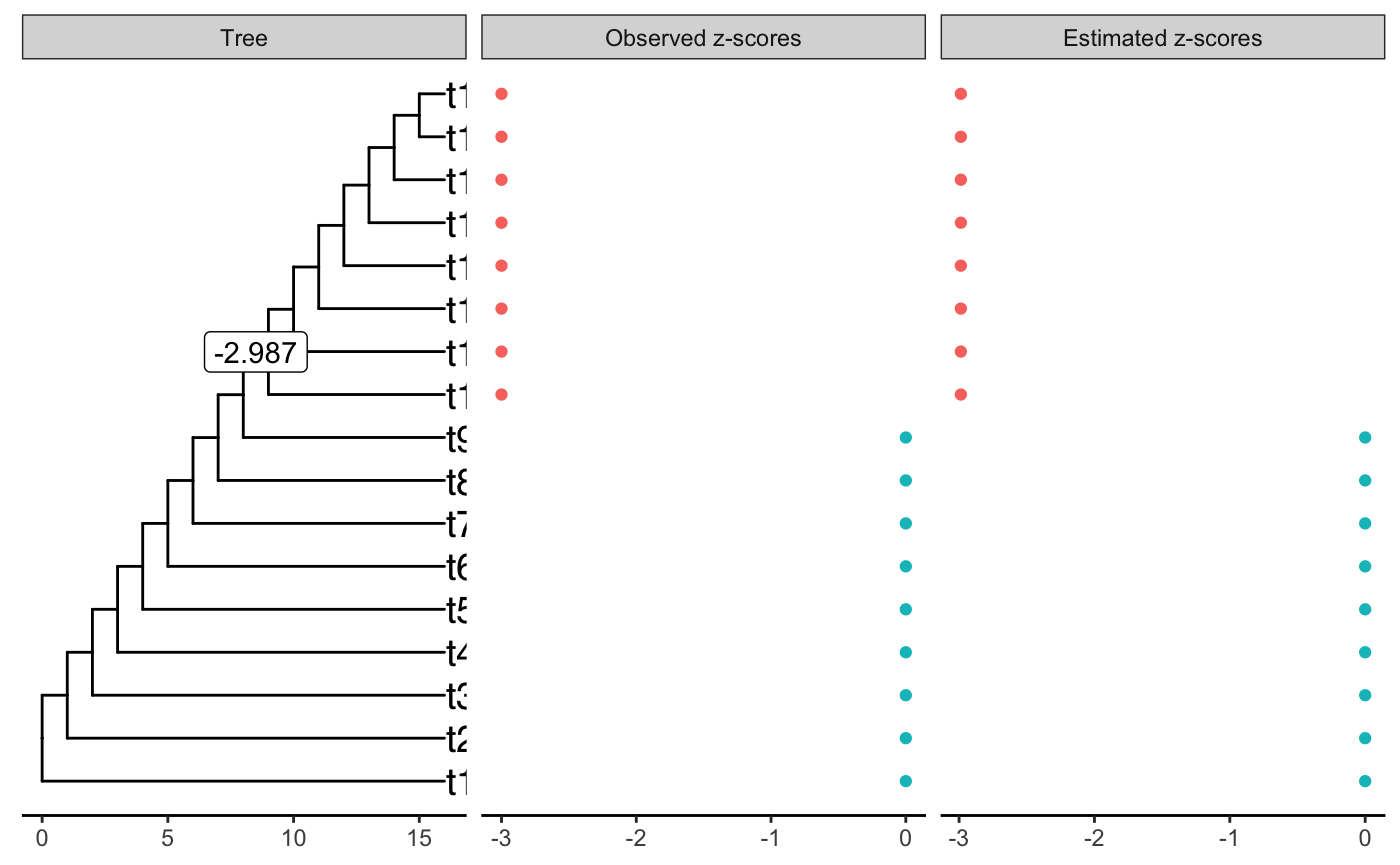
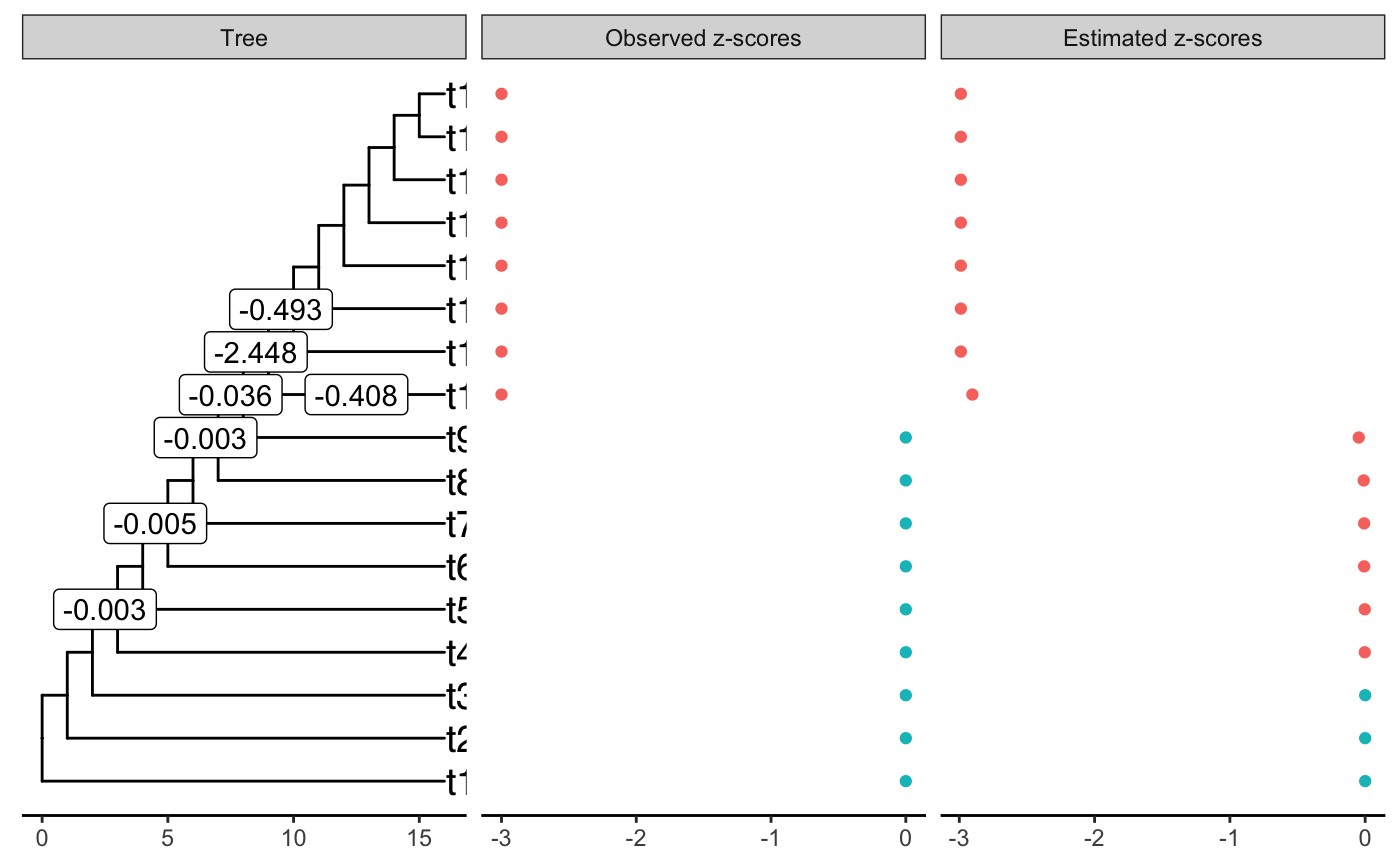
Render pkgdown

diff --git a/inst/docs/articles/constraints.html b/inst/docs/articles/constraints.html
@@ -102,7 +102,8 @@
     
     
 <div class="sourceCode" id="cb1"><pre class="sourceCode r"><code class="sourceCode r"><a class="sourceLine" id="cb1-1" data-line-number="1"><span class="kw"><a href="https://rdrr.io/r/base/library.html">library</a></span>(zazou)</a>
-<a class="sourceLine" id="cb1-2" data-line-number="2"><span class="kw"><a href="https://rdrr.io/r/base/library.html">library</a></span>(ape)</a></code></pre></div>
+<a class="sourceLine" id="cb1-2" data-line-number="2"><span class="kw"><a href="https://rdrr.io/r/base/library.html">library</a></span>(ape)</a>
+<a class="sourceLine" id="cb1-3" data-line-number="3"><span class="kw"><a href="https://rdrr.io/r/base/Random.html">set.seed</a></span>(<span class="dv">1234</span>)</a></code></pre></div>
 <div id="tree" class="section level2">
 <h2 class="hasAnchor">
 <a href="#tree" class="anchor"></a>Tree</h2>
@@ -129,32 +130,33 @@
 <h3 class="hasAnchor">
 <a href="#constraint-on-beta" class="anchor"></a>Constraint on beta</h3>
 <div class="sourceCode" id="cb4"><pre class="sourceCode r"><code class="sourceCode r"><a class="sourceLine" id="cb4-1" data-line-number="1">estimation1 &lt;-<span class="st"> </span><span class="kw"><a href="../reference/estimate_shifts.html">estimate_shifts</a></span>(<span class="kw"><a href="https://rdrr.io/r/base/rep.html">rep</a></span>(<span class="dv">0</span>, M), <span class="dt">zscores =</span> true_zscores, </a>
-<a class="sourceLine" id="cb4-2" data-line-number="2">                              <span class="dt">tree =</span> tree, <span class="dt">alpha =</span> <span class="dv">1</span>, <span class="dt">lambda =</span> <span class="fl">0.1</span>)</a>
-<a class="sourceLine" id="cb4-3" data-line-number="3">estimation1</a>
-<a class="sourceLine" id="cb4-4" data-line-number="4"><span class="co">#&gt; Tree is binary with 17 leafs and 32 branches</span></a>
-<a class="sourceLine" id="cb4-5" data-line-number="5"><span class="co">#&gt; Covariance matrix has been estimated from an OU with alpha = 1 and sigma = 1.414 </span></a>
-<a class="sourceLine" id="cb4-6" data-line-number="6"><span class="co">#&gt; ---</span></a>
-<a class="sourceLine" id="cb4-7" data-line-number="7"><span class="co">#&gt; Optimisation algorithm: L-BFGS-B</span></a>
-<a class="sourceLine" id="cb4-8" data-line-number="8"><span class="co">#&gt; Regularization parameter: lambda = 0.1 </span></a>
-<a class="sourceLine" id="cb4-9" data-line-number="9"><span class="co">#&gt; Objective value: 0.299</span></a>
-<a class="sourceLine" id="cb4-10" data-line-number="10"><span class="co">#&gt; BIC: 45.861</span></a>
-<a class="sourceLine" id="cb4-11" data-line-number="11"><span class="co">#&gt; pBIC: 58.47</span></a>
-<a class="sourceLine" id="cb4-12" data-line-number="12"><span class="co">#&gt; ---</span></a>
-<a class="sourceLine" id="cb4-13" data-line-number="13"><span class="co">#&gt; Estimated shifts: 0 0 0 0 0 0 0 0 0 0 ...</span></a>
-<a class="sourceLine" id="cb4-14" data-line-number="14"><span class="co">#&gt; 1 shifts have been identified (ie 96.9 % of sparsity)</span></a>
-<a class="sourceLine" id="cb4-15" data-line-number="15"><span class="co">#&gt; A parsimonious solution would involve 1 shifts</span></a>
-<a class="sourceLine" id="cb4-16" data-line-number="16"><span class="co">#&gt; ---</span></a>
-<a class="sourceLine" id="cb4-17" data-line-number="17"><span class="co">#&gt; Observed z-scores:  0 0 0 0 0 0 0 0 0     -3 ...</span></a>
-<a class="sourceLine" id="cb4-18" data-line-number="18"><span class="co">#&gt; Estimated z-scores: 0 0 0 0 0 0 0 0 0 -2.987 ...</span></a>
-<a class="sourceLine" id="cb4-19" data-line-number="19"><span class="co">#&gt; 8 z-scores have been shifted (ie 52.9 % of sparsity)</span></a>
-<a class="sourceLine" id="cb4-20" data-line-number="20"><span class="kw"><a href="https://rdrr.io/r/graphics/plot.html">plot</a></span>(estimation1)</a>
-<a class="sourceLine" id="cb4-21" data-line-number="21"><span class="co">#&gt; Warning: Removed 32 rows containing missing values (geom_label).</span></a></code></pre></div>
+<a class="sourceLine" id="cb4-2" data-line-number="2">                              <span class="dt">tree =</span> tree, <span class="dt">alpha =</span> <span class="dv">1</span>, <span class="dt">lambda =</span> <span class="fl">0.1</span>, </a>
+<a class="sourceLine" id="cb4-3" data-line-number="3">                              <span class="dt">method =</span> <span class="st">"shooting"</span>)</a>
+<a class="sourceLine" id="cb4-4" data-line-number="4">estimation1</a>
+<a class="sourceLine" id="cb4-5" data-line-number="5"><span class="co">#&gt; Tree is binary with 17 leafs and 32 branches</span></a>
+<a class="sourceLine" id="cb4-6" data-line-number="6"><span class="co">#&gt; Covariance matrix has been estimated from an OU with alpha = 1 and sigma = 1.414 </span></a>
+<a class="sourceLine" id="cb4-7" data-line-number="7"><span class="co">#&gt; ---</span></a>
+<a class="sourceLine" id="cb4-8" data-line-number="8"><span class="co">#&gt; Optimisation algorithm: shooting</span></a>
+<a class="sourceLine" id="cb4-9" data-line-number="9"><span class="co">#&gt; Regularization parameter: lambda = 0.1 </span></a>
+<a class="sourceLine" id="cb4-10" data-line-number="10"><span class="co">#&gt; Objective value: 0.346</span></a>
+<a class="sourceLine" id="cb4-11" data-line-number="11"><span class="co">#&gt; BIC: 62.866</span></a>
+<a class="sourceLine" id="cb4-12" data-line-number="12"><span class="co">#&gt; pBIC: 71.018</span></a>
+<a class="sourceLine" id="cb4-13" data-line-number="13"><span class="co">#&gt; ---</span></a>
+<a class="sourceLine" id="cb4-14" data-line-number="14"><span class="co">#&gt; Estimated shifts: 0 0 0 0 0 -0.003 0 0 0 -0.005 ...</span></a>
+<a class="sourceLine" id="cb4-15" data-line-number="15"><span class="co">#&gt; 7 shifts have been identified (ie 78.1 % of sparsity)</span></a>
+<a class="sourceLine" id="cb4-16" data-line-number="16"><span class="co">#&gt; A parsimonious solution would involve 6 shifts</span></a>
+<a class="sourceLine" id="cb4-17" data-line-number="17"><span class="co">#&gt; ---</span></a>
+<a class="sourceLine" id="cb4-18" data-line-number="18"><span class="co">#&gt; Observed z-scores:  0 0 0      0      0      0      0      0      0     -3 ...</span></a>
+<a class="sourceLine" id="cb4-19" data-line-number="19"><span class="co">#&gt; Estimated z-scores: 0 0 0 -0.003 -0.003 -0.008 -0.008 -0.011 -0.047 -2.903 ...</span></a>
+<a class="sourceLine" id="cb4-20" data-line-number="20"><span class="co">#&gt; 14 z-scores have been shifted (ie 17.6 % of sparsity)</span></a>
+<a class="sourceLine" id="cb4-21" data-line-number="21"><span class="kw"><a href="https://rdrr.io/r/graphics/plot.html">plot</a></span>(estimation1)</a>
+<a class="sourceLine" id="cb4-22" data-line-number="22"><span class="co">#&gt; Warning: Removed 26 rows containing missing values (geom_label).</span></a></code></pre></div>
 <p><img src="constraints_files/figure-html/unnamed-chunk-3-1.png" width="700" style="display: block; margin: auto;"></p>
 </div>
 </div>
-<div id="all-zscores-are-negative-but-shifts-could-be-positive" class="section level2">
+<div id="all-z-scores-are-negative-but-shifts-could-be-positive" class="section level2">
 <h2 class="hasAnchor">
-<a href="#all-zscores-are-negative-but-shifts-could-be-positive" class="anchor"></a>All zscores are negative but shifts could be positive</h2>
+<a href="#all-z-scores-are-negative-but-shifts-could-be-positive" class="anchor"></a>All z-scores are negative but shifts could be positive</h2>
 <div class="sourceCode" id="cb5"><pre class="sourceCode r"><code class="sourceCode r"><a class="sourceLine" id="cb5-1" data-line-number="1">true_shifts[<span class="dv">13</span> <span class="op">*</span><span class="st"> </span>M <span class="op">/</span><span class="st"> </span><span class="dv">16</span>] &lt;-<span class="st"> </span><span class="dv">1</span></a>
 <a class="sourceLine" id="cb5-2" data-line-number="2">true_zscores &lt;-<span class="st"> </span>mat_incid <span class="op">%*%</span><span class="st"> </span>true_shifts</a>
 <a class="sourceLine" id="cb5-3" data-line-number="3"><span class="kw"><a href="../reference/plot_shifts.html">plot_shifts</a></span>(tree, true_shifts, <span class="dt">true_scores =</span> true_zscores)</a>
@@ -172,20 +174,21 @@
 <a class="sourceLine" id="cb6-7" data-line-number="7"><span class="co">#&gt; ---</span></a>
 <a class="sourceLine" id="cb6-8" data-line-number="8"><span class="co">#&gt; Optimisation algorithm: shooting</span></a>
 <a class="sourceLine" id="cb6-9" data-line-number="9"><span class="co">#&gt; Regularization parameter: lambda = 0.1 </span></a>
-<a class="sourceLine" id="cb6-10" data-line-number="10"><span class="co">#&gt; Objective value: 0.594</span></a>
-<a class="sourceLine" id="cb6-11" data-line-number="11"><span class="co">#&gt; BIC: 71.389</span></a>
-<a class="sourceLine" id="cb6-12" data-line-number="12"><span class="co">#&gt; pBIC: 90.335</span></a>
+<a class="sourceLine" id="cb6-10" data-line-number="10"><span class="co">#&gt; Objective value: 0.598</span></a>
+<a class="sourceLine" id="cb6-11" data-line-number="11"><span class="co">#&gt; BIC: 74.222</span></a>
+<a class="sourceLine" id="cb6-12" data-line-number="12"><span class="co">#&gt; pBIC: 97.086</span></a>
 <a class="sourceLine" id="cb6-13" data-line-number="13"><span class="co">#&gt; ---</span></a>
-<a class="sourceLine" id="cb6-14" data-line-number="14"><span class="co">#&gt; Estimated shifts: 0 0 0 0 0 -0.002 0 0 0 0 ...</span></a>
-<a class="sourceLine" id="cb6-15" data-line-number="15"><span class="co">#&gt; 10 shifts have been identified (ie 68.8 % of sparsity)</span></a>
-<a class="sourceLine" id="cb6-16" data-line-number="16"><span class="co">#&gt; A parsimonious solution would involve 9 shifts</span></a>
+<a class="sourceLine" id="cb6-14" data-line-number="14"><span class="co">#&gt; Estimated shifts: 0 0 0 -0.001 0 0 0 0 0 -0.003 ...</span></a>
+<a class="sourceLine" id="cb6-15" data-line-number="15"><span class="co">#&gt; 11 shifts have been identified (ie 65.6 % of sparsity)</span></a>
+<a class="sourceLine" id="cb6-16" data-line-number="16"><span class="co">#&gt; A parsimonious solution would involve 10 shifts</span></a>
 <a class="sourceLine" id="cb6-17" data-line-number="17"><span class="co">#&gt; ---</span></a>
-<a class="sourceLine" id="cb6-18" data-line-number="18"><span class="co">#&gt; Observed z-scores:  0 0 0      0      0      0      0      0      0   -3 ...</span></a>
-<a class="sourceLine" id="cb6-19" data-line-number="19"><span class="co">#&gt; Estimated z-scores: 0 0 0 -0.002 -0.002 -0.002 -0.004 -0.007 -0.049 -2.9 ...</span></a>
-<a class="sourceLine" id="cb6-20" data-line-number="20"><span class="co">#&gt; 14 z-scores have been shifted (ie 17.6 % of sparsity)</span></a>
+<a class="sourceLine" id="cb6-18" data-line-number="18"><span class="co">#&gt; Observed z-scores:  0 0      0      0      0      0      0     0      0     -3 ...</span></a>
+<a class="sourceLine" id="cb6-19" data-line-number="19"><span class="co">#&gt; Estimated z-scores: 0 0 -0.001 -0.001 -0.001 -0.004 -0.006 -0.01 -0.052 -2.905 ...</span></a>
+<a class="sourceLine" id="cb6-20" data-line-number="20"><span class="co">#&gt; 15 z-scores have been shifted (ie 11.8 % of sparsity)</span></a>
 <a class="sourceLine" id="cb6-21" data-line-number="21"><span class="kw"><a href="https://rdrr.io/r/graphics/plot.html">plot</a></span>(estimation2)</a>
-<a class="sourceLine" id="cb6-22" data-line-number="22"><span class="co">#&gt; Warning: Removed 23 rows containing missing values (geom_label).</span></a></code></pre></div>
+<a class="sourceLine" id="cb6-22" data-line-number="22"><span class="co">#&gt; Warning: Removed 22 rows containing missing values (geom_label).</span></a></code></pre></div>
 <p><img src="constraints_files/figure-html/unnamed-chunk-5-1.png" width="700" style="display: block; margin: auto;"></p>
+<p>Z-score are well recovered but the solution is absolutely not sparse. We should prioritize ancestral branches before</p>
 </div>
 <div id="constraint-on-yhat" class="section level3">
 <h3 class="hasAnchor">
@@ -194,16 +197,31 @@
 <a class="sourceLine" id="cb7-2" data-line-number="2">                              <span class="dt">tree =</span> tree, <span class="dt">alpha =</span> <span class="dv">1</span>, <span class="dt">lambda =</span> <span class="fl">0.1</span>,  </a>
 <a class="sourceLine" id="cb7-3" data-line-number="3">                              <span class="dt">method =</span> <span class="st">"shooting"</span>,</a>
 <a class="sourceLine" id="cb7-4" data-line-number="4">                              <span class="dt">constraint_type =</span> <span class="st">"yhat"</span>)</a>
-<a class="sourceLine" id="cb7-5" data-line-number="5"><span class="co">#&gt; Error in solve_univariate(y = y, x = xi, z = zi, lambda = lambda, ...): The constraint is not feasible. Consider changing the constraint.</span></a>
-<a class="sourceLine" id="cb7-6" data-line-number="6">estimation3</a>
-<a class="sourceLine" id="cb7-7" data-line-number="7"><span class="co">#&gt; Error in eval(expr, envir, enclos): objet 'estimation3' introuvable</span></a>
-<a class="sourceLine" id="cb7-8" data-line-number="8"><span class="kw"><a href="https://rdrr.io/r/graphics/plot.html">plot</a></span>(estimation3)</a>
-<a class="sourceLine" id="cb7-9" data-line-number="9"><span class="co">#&gt; Error in plot(estimation3): objet 'estimation3' introuvable</span></a></code></pre></div>
+<a class="sourceLine" id="cb7-5" data-line-number="5">estimation3</a>
+<a class="sourceLine" id="cb7-6" data-line-number="6"><span class="co">#&gt; Tree is binary with 17 leafs and 32 branches</span></a>
+<a class="sourceLine" id="cb7-7" data-line-number="7"><span class="co">#&gt; Covariance matrix has been estimated from an OU with alpha = 1 and sigma = 1.414 </span></a>
+<a class="sourceLine" id="cb7-8" data-line-number="8"><span class="co">#&gt; ---</span></a>
+<a class="sourceLine" id="cb7-9" data-line-number="9"><span class="co">#&gt; Optimisation algorithm: shooting</span></a>
+<a class="sourceLine" id="cb7-10" data-line-number="10"><span class="co">#&gt; Regularization parameter: lambda = 0.1 </span></a>
+<a class="sourceLine" id="cb7-11" data-line-number="11"><span class="co">#&gt; Objective value: 0.496</span></a>
+<a class="sourceLine" id="cb7-12" data-line-number="12"><span class="co">#&gt; BIC: 68.543</span></a>
+<a class="sourceLine" id="cb7-13" data-line-number="13"><span class="co">#&gt; pBIC: 49.692</span></a>
+<a class="sourceLine" id="cb7-14" data-line-number="14"><span class="co">#&gt; ---</span></a>
+<a class="sourceLine" id="cb7-15" data-line-number="15"><span class="co">#&gt; Estimated shifts: 0 -0.001 0 0 0 0 0 0 0 -0.001 ...</span></a>
+<a class="sourceLine" id="cb7-16" data-line-number="16"><span class="co">#&gt; 9 shifts have been identified (ie 71.9 % of sparsity)</span></a>
+<a class="sourceLine" id="cb7-17" data-line-number="17"><span class="co">#&gt; A parsimonious solution would involve 7 shifts</span></a>
+<a class="sourceLine" id="cb7-18" data-line-number="18"><span class="co">#&gt; ---</span></a>
+<a class="sourceLine" id="cb7-19" data-line-number="19"><span class="co">#&gt; Observed z-scores:  0      0      0      0      0      0      0      0    0   -3 ...</span></a>
+<a class="sourceLine" id="cb7-20" data-line-number="20"><span class="co">#&gt; Estimated z-scores: 0 -0.001 -0.001 -0.001 -0.001 -0.001 -0.001 -0.002 -0.1 -2.9 ...</span></a>
+<a class="sourceLine" id="cb7-21" data-line-number="21"><span class="co">#&gt; 16 z-scores have been shifted (ie 5.9 % of sparsity)</span></a>
+<a class="sourceLine" id="cb7-22" data-line-number="22"><span class="kw"><a href="https://rdrr.io/r/graphics/plot.html">plot</a></span>(estimation3)</a>
+<a class="sourceLine" id="cb7-23" data-line-number="23"><span class="co">#&gt; Warning: Removed 24 rows containing missing values (geom_label).</span></a></code></pre></div>
+<p><img src="constraints_files/figure-html/unnamed-chunk-6-1.png" width="700" style="display: block; margin: auto;"></p>
 </div>
 </div>
-<div id="all-zscores-could-be-positive" class="section level2">
+<div id="all-z-scores-could-be-positive" class="section level2">
 <h2 class="hasAnchor">
-<a href="#all-zscores-could-be-positive" class="anchor"></a>All zscores could be positive</h2>
+<a href="#all-z-scores-could-be-positive" class="anchor"></a>All z-scores could be positive</h2>
 <div class="sourceCode" id="cb8"><pre class="sourceCode r"><code class="sourceCode r"><a class="sourceLine" id="cb8-1" data-line-number="1">true_shifts[<span class="dv">2</span> <span class="op">*</span><span class="st"> </span>M <span class="op">/</span><span class="st"> </span><span class="dv">16</span> <span class="op">+</span><span class="st"> </span><span class="dv">1</span>] &lt;-<span class="st"> </span><span class="dv">1</span></a>
 <a class="sourceLine" id="cb8-2" data-line-number="2">true_zscores &lt;-<span class="st"> </span>mat_incid <span class="op">%*%</span><span class="st"> </span>true_shifts</a>
 <a class="sourceLine" id="cb8-3" data-line-number="3"><span class="kw"><a href="../reference/plot_shifts.html">plot_shifts</a></span>(tree, true_shifts, <span class="dt">true_scores =</span> true_zscores)</a>
@@ -216,11 +234,26 @@
 <a class="sourceLine" id="cb9-2" data-line-number="2">                              <span class="dt">tree =</span> tree, <span class="dt">alpha =</span> <span class="dv">1</span>, <span class="dt">lambda =</span> <span class="fl">0.1</span>,  </a>
 <a class="sourceLine" id="cb9-3" data-line-number="3">                              <span class="dt">method =</span> <span class="st">"shooting"</span>,</a>
 <a class="sourceLine" id="cb9-4" data-line-number="4">                              <span class="dt">constraint_type =</span> <span class="st">"yhat"</span>)</a>
-<a class="sourceLine" id="cb9-5" data-line-number="5"><span class="co">#&gt; Error in solve_univariate(y = y, x = xi, z = zi, lambda = lambda, ...): The constraint is not feasible. Consider changing the constraint.</span></a>
-<a class="sourceLine" id="cb9-6" data-line-number="6">estimation4</a>
-<a class="sourceLine" id="cb9-7" data-line-number="7"><span class="co">#&gt; Error in eval(expr, envir, enclos): objet 'estimation4' introuvable</span></a>
-<a class="sourceLine" id="cb9-8" data-line-number="8"><span class="kw"><a href="https://rdrr.io/r/graphics/plot.html">plot</a></span>(estimation4)</a>
-<a class="sourceLine" id="cb9-9" data-line-number="9"><span class="co">#&gt; Error in plot(estimation4): objet 'estimation4' introuvable</span></a></code></pre></div>
+<a class="sourceLine" id="cb9-5" data-line-number="5">estimation4</a>
+<a class="sourceLine" id="cb9-6" data-line-number="6"><span class="co">#&gt; Tree is binary with 17 leafs and 32 branches</span></a>
+<a class="sourceLine" id="cb9-7" data-line-number="7"><span class="co">#&gt; Covariance matrix has been estimated from an OU with alpha = 1 and sigma = 1.414 </span></a>
+<a class="sourceLine" id="cb9-8" data-line-number="8"><span class="co">#&gt; ---</span></a>
+<a class="sourceLine" id="cb9-9" data-line-number="9"><span class="co">#&gt; Optimisation algorithm: shooting</span></a>
+<a class="sourceLine" id="cb9-10" data-line-number="10"><span class="co">#&gt; Regularization parameter: lambda = 0.1 </span></a>
+<a class="sourceLine" id="cb9-11" data-line-number="11"><span class="co">#&gt; Objective value: 1.071</span></a>
+<a class="sourceLine" id="cb9-12" data-line-number="12"><span class="co">#&gt; BIC: 60.539</span></a>
+<a class="sourceLine" id="cb9-13" data-line-number="13"><span class="co">#&gt; pBIC: 64.297</span></a>
+<a class="sourceLine" id="cb9-14" data-line-number="14"><span class="co">#&gt; ---</span></a>
+<a class="sourceLine" id="cb9-15" data-line-number="15"><span class="co">#&gt; Estimated shifts: 0 0 0 0 0 0 0 0 0 0 ...</span></a>
+<a class="sourceLine" id="cb9-16" data-line-number="16"><span class="co">#&gt; 6 shifts have been identified (ie 81.2 % of sparsity)</span></a>
+<a class="sourceLine" id="cb9-17" data-line-number="17"><span class="co">#&gt; A parsimonious solution would involve 5 shifts</span></a>
+<a class="sourceLine" id="cb9-18" data-line-number="18"><span class="co">#&gt; ---</span></a>
+<a class="sourceLine" id="cb9-19" data-line-number="19"><span class="co">#&gt; Observed z-scores:  0 0 1 0 0 0 0 0      0     -3 ...</span></a>
+<a class="sourceLine" id="cb9-20" data-line-number="20"><span class="co">#&gt; Estimated z-scores: 0 0 0 0 0 0 0 0 -0.088 -2.937 ...</span></a>
+<a class="sourceLine" id="cb9-21" data-line-number="21"><span class="co">#&gt; 13 z-scores have been shifted (ie 23.5 % of sparsity)</span></a>
+<a class="sourceLine" id="cb9-22" data-line-number="22"><span class="kw"><a href="https://rdrr.io/r/graphics/plot.html">plot</a></span>(estimation4)</a>
+<a class="sourceLine" id="cb9-23" data-line-number="23"><span class="co">#&gt; Warning: Removed 27 rows containing missing values (geom_label).</span></a></code></pre></div>
+<p><img src="constraints_files/figure-html/unnamed-chunk-8-1.png" width="700" style="display: block; margin: auto;"></p>
 </div>
 <div id="no-constraint" class="section level3">
 <h3 class="hasAnchor">
@@ -235,19 +268,19 @@
 <a class="sourceLine" id="cb10-8" data-line-number="8"><span class="co">#&gt; ---</span></a>
 <a class="sourceLine" id="cb10-9" data-line-number="9"><span class="co">#&gt; Optimisation algorithm: shooting</span></a>
 <a class="sourceLine" id="cb10-10" data-line-number="10"><span class="co">#&gt; Regularization parameter: lambda = 0.1 </span></a>
-<a class="sourceLine" id="cb10-11" data-line-number="11"><span class="co">#&gt; Objective value: 0.618</span></a>
-<a class="sourceLine" id="cb10-12" data-line-number="12"><span class="co">#&gt; BIC: 62.879</span></a>
-<a class="sourceLine" id="cb10-13" data-line-number="13"><span class="co">#&gt; pBIC: 33.601</span></a>
+<a class="sourceLine" id="cb10-11" data-line-number="11"><span class="co">#&gt; Objective value: 0.52</span></a>
+<a class="sourceLine" id="cb10-12" data-line-number="12"><span class="co">#&gt; BIC: 74.209</span></a>
+<a class="sourceLine" id="cb10-13" data-line-number="13"><span class="co">#&gt; pBIC: 98.167</span></a>
 <a class="sourceLine" id="cb10-14" data-line-number="14"><span class="co">#&gt; ---</span></a>
-<a class="sourceLine" id="cb10-15" data-line-number="15"><span class="co">#&gt; Estimated shifts: 0 0 0 0 0.9 0 0 0 0 0 ...</span></a>
-<a class="sourceLine" id="cb10-16" data-line-number="16"><span class="co">#&gt; 7 shifts have been identified (ie 78.1 % of sparsity)</span></a>
-<a class="sourceLine" id="cb10-17" data-line-number="17"><span class="co">#&gt; A parsimonious solution would involve 5 shifts</span></a>
+<a class="sourceLine" id="cb10-15" data-line-number="15"><span class="co">#&gt; Estimated shifts: 0 0 0 0 0.9 0 0 -0.003 0 -0.001 ...</span></a>
+<a class="sourceLine" id="cb10-16" data-line-number="16"><span class="co">#&gt; 11 shifts have been identified (ie 65.6 % of sparsity)</span></a>
+<a class="sourceLine" id="cb10-17" data-line-number="17"><span class="co">#&gt; A parsimonious solution would involve 10 shifts</span></a>
 <a class="sourceLine" id="cb10-18" data-line-number="18"><span class="co">#&gt; ---</span></a>
-<a class="sourceLine" id="cb10-19" data-line-number="19"><span class="co">#&gt; Observed z-scores:  0 0   1 0 0 0 0 0    0   -3 ...</span></a>
-<a class="sourceLine" id="cb10-20" data-line-number="20"><span class="co">#&gt; Estimated z-scores: 0 0 0.9 0 0 0 0 0 -0.1 -2.9 ...</span></a>
-<a class="sourceLine" id="cb10-21" data-line-number="21"><span class="co">#&gt; 10 z-scores have been shifted (ie 41.2 % of sparsity)</span></a>
+<a class="sourceLine" id="cb10-19" data-line-number="19"><span class="co">#&gt; Observed z-scores:  0 0   1 0      0      0      0      0     0     -3 ...</span></a>
+<a class="sourceLine" id="cb10-20" data-line-number="20"><span class="co">#&gt; Estimated z-scores: 0 0 0.9 0 -0.004 -0.004 -0.005 -0.005 -0.05 -2.911 ...</span></a>
+<a class="sourceLine" id="cb10-21" data-line-number="21"><span class="co">#&gt; 15 z-scores have been shifted (ie 11.8 % of sparsity)</span></a>
 <a class="sourceLine" id="cb10-22" data-line-number="22"><span class="kw"><a href="https://rdrr.io/r/graphics/plot.html">plot</a></span>(estimation5)</a>
-<a class="sourceLine" id="cb10-23" data-line-number="23"><span class="co">#&gt; Warning: Removed 26 rows containing missing values (geom_label).</span></a></code></pre></div>
+<a class="sourceLine" id="cb10-23" data-line-number="23"><span class="co">#&gt; Warning: Removed 22 rows containing missing values (geom_label).</span></a></code></pre></div>
 <p><img src="constraints_files/figure-html/unnamed-chunk-9-1.png" width="700" style="display: block; margin: auto;"></p>
 </div>
 </div>
@@ -261,8 +294,8 @@
       <ul class="nav nav-pills nav-stacked">
 <li><a href="#tree">Tree</a></li>
       <li><a href="#all-shifts-are-negative">All shifts are negative</a></li>
-      <li><a href="#all-zscores-are-negative-but-shifts-could-be-positive">All zscores are negative but shifts could be positive</a></li>
-      <li><a href="#all-zscores-could-be-positive">All zscores could be positive</a></li>
+      <li><a href="#all-z-scores-are-negative-but-shifts-could-be-positive">All z-scores are negative but shifts could be positive</a></li>
+      <li><a href="#all-z-scores-could-be-positive">All z-scores could be positive</a></li>
       </ul>
 </div>
       </div>

diff --git a/inst/docs/articles/alcohol.html b/inst/docs/articles/alcohol.html
@@ -145,7 +145,7 @@
 <a class="sourceLine" id="cb7-3" data-line-number="3">                              <span class="dt">lambda =</span> <span class="dv">2</span>, <span class="dt">tree =</span> tree, <span class="dt">alpha =</span> <span class="fl">0.1</span>,</a>
 <a class="sourceLine" id="cb7-4" data-line-number="4">                              <span class="dt">method =</span> <span class="st">"L-BFGS-B"</span>)</a>
 <a class="sourceLine" id="cb7-5" data-line-number="5"><span class="kw"><a href="https://rdrr.io/pkg/tictoc/man/tic.html">toc</a></span>()</a>
-<a class="sourceLine" id="cb7-6" data-line-number="6"><span class="co">#&gt; 169.282 sec elapsed</span></a>
+<a class="sourceLine" id="cb7-6" data-line-number="6"><span class="co">#&gt; 169.096 sec elapsed</span></a>
 <a class="sourceLine" id="cb7-7" data-line-number="7">est_lbfgsb</a>
 <a class="sourceLine" id="cb7-8" data-line-number="8"><span class="co">#&gt; Tree is not binary with 949 leafs and 1890 branches</span></a>
 <a class="sourceLine" id="cb7-9" data-line-number="9"><span class="co">#&gt; Covariance matrix has been estimated from an OU with alpha = 0.1 and sigma = 2.307 </span></a>
@@ -175,7 +175,7 @@
 <a class="sourceLine" id="cb8-3" data-line-number="3">                                <span class="dt">lambda =</span> <span class="dv">2</span>, <span class="dt">tree =</span> tree, <span class="dt">alpha =</span> <span class="fl">0.1</span>,</a>
 <a class="sourceLine" id="cb8-4" data-line-number="4">                                <span class="dt">method =</span> <span class="st">"shooting"</span>)</a>
 <a class="sourceLine" id="cb8-5" data-line-number="5"><span class="kw"><a href="https://rdrr.io/pkg/tictoc/man/tic.html">toc</a></span>() <span class="co"># 10 times faster</span></a>
-<a class="sourceLine" id="cb8-6" data-line-number="6"><span class="co">#&gt; 7.092 sec elapsed</span></a>
+<a class="sourceLine" id="cb8-6" data-line-number="6"><span class="co">#&gt; 7.197 sec elapsed</span></a>
 <a class="sourceLine" id="cb8-7" data-line-number="7">est_shooting <span class="co"># similar results</span></a>
 <a class="sourceLine" id="cb8-8" data-line-number="8"><span class="co">#&gt; Tree is not binary with 949 leafs and 1890 branches</span></a>
 <a class="sourceLine" id="cb8-9" data-line-number="9"><span class="co">#&gt; Covariance matrix has been estimated from an OU with alpha = 0.1 and sigma = 2.307 </span></a>
@@ -205,7 +205,7 @@
 <a class="sourceLine" id="cb9-3" data-line-number="3">                                <span class="dt">lambda =</span> <span class="dv">2</span>, <span class="dt">tree =</span> tree, <span class="dt">alpha =</span> <span class="fl">0.1</span>,</a>
 <a class="sourceLine" id="cb9-4" data-line-number="4">                                <span class="dt">method =</span> <span class="st">"shooting"</span>, <span class="dt">allow_positive =</span> <span class="ot">TRUE</span>)</a>
 <a class="sourceLine" id="cb9-5" data-line-number="5"><span class="kw"><a href="https://rdrr.io/pkg/tictoc/man/tic.html">toc</a></span>() <span class="co"># 10 times faster</span></a>
-<a class="sourceLine" id="cb9-6" data-line-number="6"><span class="co">#&gt; 6.957 sec elapsed</span></a>
+<a class="sourceLine" id="cb9-6" data-line-number="6"><span class="co">#&gt; 7.188 sec elapsed</span></a>
 <a class="sourceLine" id="cb9-7" data-line-number="7">est_shooting_p <span class="co"># similar results</span></a>
 <a class="sourceLine" id="cb9-8" data-line-number="8"><span class="co">#&gt; Tree is not binary with 949 leafs and 1890 branches</span></a>
 <a class="sourceLine" id="cb9-9" data-line-number="9"><span class="co">#&gt; Covariance matrix has been estimated from an OU with alpha = 0.1 and sigma = 2.307 </span></a>

diff --git a/inst/docs/articles/chlamydiae.html b/inst/docs/articles/chlamydiae.html
@@ -138,7 +138,7 @@
 <a class="sourceLine" id="cb5-3" data-line-number="3">                              <span class="dt">lambda =</span> <span class="fl">0.1</span>, <span class="dt">tree =</span> tree, <span class="dt">alpha =</span> <span class="dv">1</span>,</a>
 <a class="sourceLine" id="cb5-4" data-line-number="4">                              <span class="dt">method =</span> <span class="st">"L-BFGS-B"</span>)</a>
 <a class="sourceLine" id="cb5-5" data-line-number="5"><span class="kw"><a href="https://rdrr.io/pkg/tictoc/man/tic.html">toc</a></span>()</a>
-<a class="sourceLine" id="cb5-6" data-line-number="6"><span class="co">#&gt; 0.01 sec elapsed</span></a>
+<a class="sourceLine" id="cb5-6" data-line-number="6"><span class="co">#&gt; 0.012 sec elapsed</span></a>
 <a class="sourceLine" id="cb5-7" data-line-number="7">est_lbfgsb</a>
 <a class="sourceLine" id="cb5-8" data-line-number="8"><span class="co">#&gt; Tree is binary with 21 leafs and 40 branches</span></a>
 <a class="sourceLine" id="cb5-9" data-line-number="9"><span class="co">#&gt; Covariance matrix has been estimated from an OU with alpha = 1 and sigma = 7.198 </span></a>
@@ -169,7 +169,7 @@
 <a class="sourceLine" id="cb6-4" data-line-number="4">                                <span class="dt">lambda =</span> <span class="fl">0.1</span>, <span class="dt">tree =</span> tree, <span class="dt">alpha =</span> <span class="dv">1</span>,</a>
 <a class="sourceLine" id="cb6-5" data-line-number="5">                                <span class="dt">method =</span> <span class="st">"shooting"</span>)</a>
 <a class="sourceLine" id="cb6-6" data-line-number="6"><span class="kw"><a href="https://rdrr.io/pkg/tictoc/man/tic.html">toc</a></span>()</a>
-<a class="sourceLine" id="cb6-7" data-line-number="7"><span class="co">#&gt; 0.04 sec elapsed</span></a>
+<a class="sourceLine" id="cb6-7" data-line-number="7"><span class="co">#&gt; 0.041 sec elapsed</span></a>
 <a class="sourceLine" id="cb6-8" data-line-number="8">est_shooting</a>
 <a class="sourceLine" id="cb6-9" data-line-number="9"><span class="co">#&gt; Tree is binary with 21 leafs and 40 branches</span></a>
 <a class="sourceLine" id="cb6-10" data-line-number="10"><span class="co">#&gt; Covariance matrix has been estimated from an OU with alpha = 1 and sigma = 7.198 </span></a>

diff --git a/inst/docs/articles/simulations.html b/inst/docs/articles/simulations.html
@@ -349,7 +349,7 @@
 <a class="sourceLine" id="cb22-2" data-line-number="2">estimation &lt;-<span class="st"> </span><span class="kw"><a href="../reference/estimate_shifts.html">estimate_shifts</a></span>(<span class="kw"><a href="https://rdrr.io/r/base/rep.html">rep</a></span>(<span class="dv">0</span>, N_branch), <span class="dt">zscores =</span> zscores, <span class="dt">tree =</span> tree,</a>
 <a class="sourceLine" id="cb22-3" data-line-number="3">                              <span class="dt">alpha =</span> <span class="kw"><a href="https://rdrr.io/r/base/c.html">c</a></span>(<span class="fl">0.2</span>, <span class="fl">0.5</span>, <span class="dv">1</span>, <span class="dv">2</span>, <span class="dv">5</span>), <span class="dt">method =</span> <span class="st">"shooting"</span>)</a>
 <a class="sourceLine" id="cb22-4" data-line-number="4"><span class="kw"><a href="https://rdrr.io/pkg/tictoc/man/tic.html">toc</a></span>()</a>
-<a class="sourceLine" id="cb22-5" data-line-number="5"><span class="co">#&gt; 10.014 sec elapsed</span></a>
+<a class="sourceLine" id="cb22-5" data-line-number="5"><span class="co">#&gt; 10.225 sec elapsed</span></a>
 <a class="sourceLine" id="cb22-6" data-line-number="6">estimation</a>
 <a class="sourceLine" id="cb22-7" data-line-number="7"><span class="co">#&gt; Tree is binary with 127 leafs and 252 branches</span></a>
 <a class="sourceLine" id="cb22-8" data-line-number="8"><span class="co">#&gt; Covariance matrix has been estimated from an OU with alpha = 0.5 and sigma = 1.516 </span></a>
